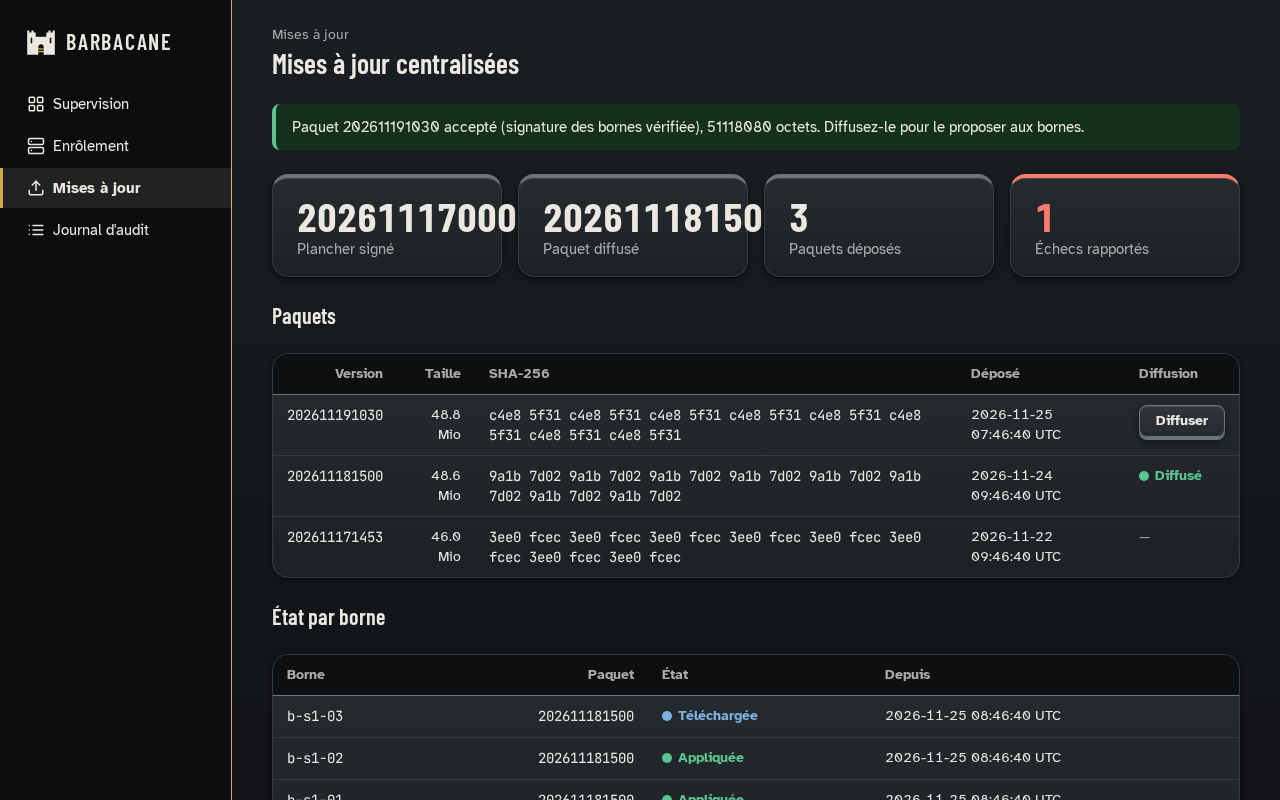
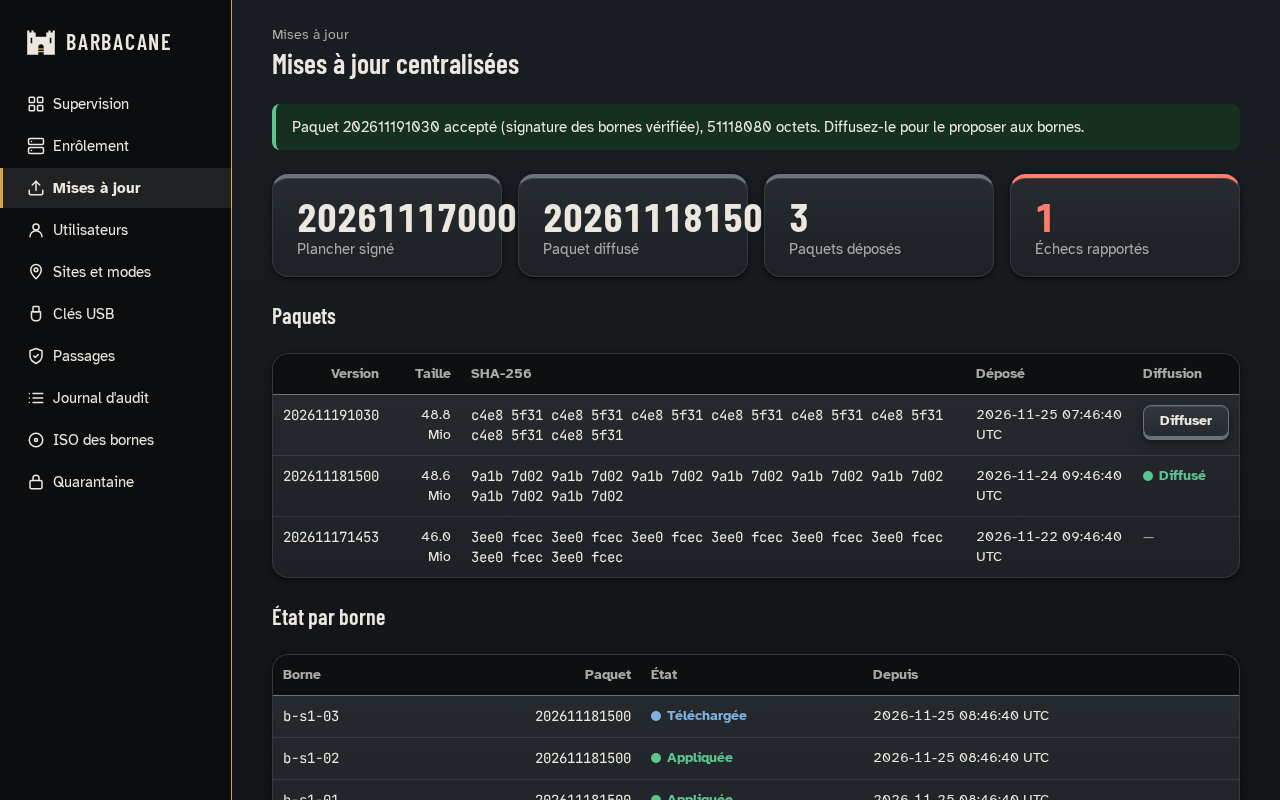
Web : colonne Actions de la Supervision visible à 1280 px
En-têtes de tableau repliables, marges de cellules réduites, site et
bouton d'action insécables (classe b-net). Captures Jour et Nuit refaites.

Claude-Session: https://claude.ai/code/session_01DxHSBb3u4CG6JGnKDngV1Q

diff --git a/serveur/web/statique/composants.css b/serveur/web/statique/composants.css
@@ -118,10 +118,12 @@ h2 { margin: 0; font: 600 22px/28px var(--font-display); }
 /* ------------------------------------------------------------ tableaux */
 .b-tableau-cadre { overflow-x: auto; border-radius: var(--rayon-l); border: 1px solid var(--trait); background: linear-gradient(180deg, var(--dalle-haut), var(--dalle-bas)); box-shadow: inset 0 1px 0 var(--lumiere), 0 2px 6px var(--ombre-diffuse); }
 .b-tableau { width: 100%; border-collapse: collapse; font-size: 14px; line-height: 20px; font-variant-numeric: tabular-nums; }
-.b-tableau th { text-align: left; font-weight: 700; color: var(--encre-douce); padding: 10px 14px; background: var(--surface-creuse); border-bottom: 1px solid var(--trait-fort); white-space: nowrap; }
-.b-tableau td { padding: 10px 14px; border-top: 1px solid var(--trait); vertical-align: top; }
+.b-tableau th { text-align: left; font-weight: 700; color: var(--encre-douce); padding: 10px; background: var(--surface-creuse); border-bottom: 1px solid var(--trait-fort); vertical-align: bottom; }
+.b-tableau td { padding: 10px; border-top: 1px solid var(--trait); vertical-align: top; }
 .b-tableau tbody tr:hover { background: color-mix(in srgb, var(--laiton-pale) 45%, transparent); }
 .b-tableau .num { text-align: right; }
+/* 1280 px : en-têtes sur deux lignes au besoin, mais ni nom de site ni bouton coupés. */
+.b-tableau td.b-net { white-space: nowrap; }
 .b-tableau .b-vide { color: var(--encre-douce); text-align: center; padding: var(--pas-3); }
 .b-coupe { overflow-wrap: anywhere; }
 .b-pagination { display: flex; gap: var(--pas-2); justify-content: flex-end; }

diff --git a/serveur/web/src/pages.rs b/serveur/web/src/pages.rs
@@ -353,7 +353,7 @@ pub fn tableau(ctx: &Contexte, lignes: &[LigneSupervision], demandes: usize) -> 
             .t(&l.nom)
             .b("</span><br><span class=\"b-douce b-mono\">")
             .t(l.uuid.get(..8).unwrap_or(&l.uuid))
-            .b("</span></td><td>")
+            .b("</span></td><td class=\"b-net\">")
             .t(&l.site)
             .b("</td><td>");
         etat(&mut c, classe, mot);
@@ -397,7 +397,7 @@ pub fn tableau(ctx: &Contexte, lignes: &[LigneSupervision], demandes: usize) -> 
         }
         c.b("</td>");
         if ctx.admin() {
-            c.b("<td>");
+            c.b("<td class=\"b-net\">");
             if l.active {
                 c.b("<a class=\"b-btn b-btn--petit\" href=\"/bornes/revoquer?uuid=")
                     .u(&l.uuid)
